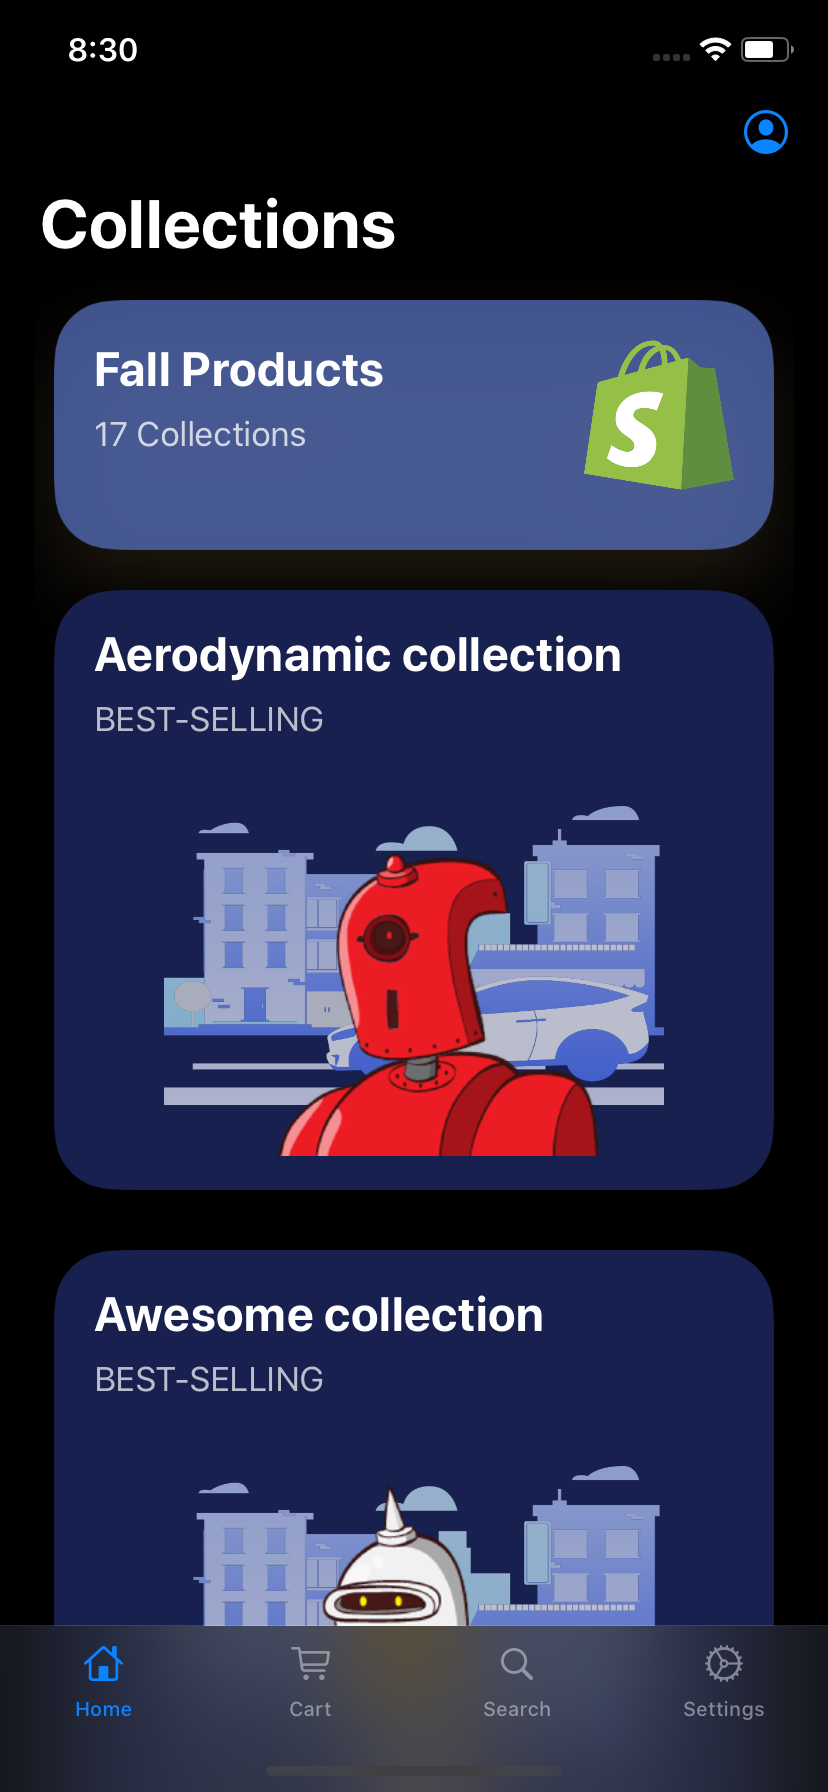
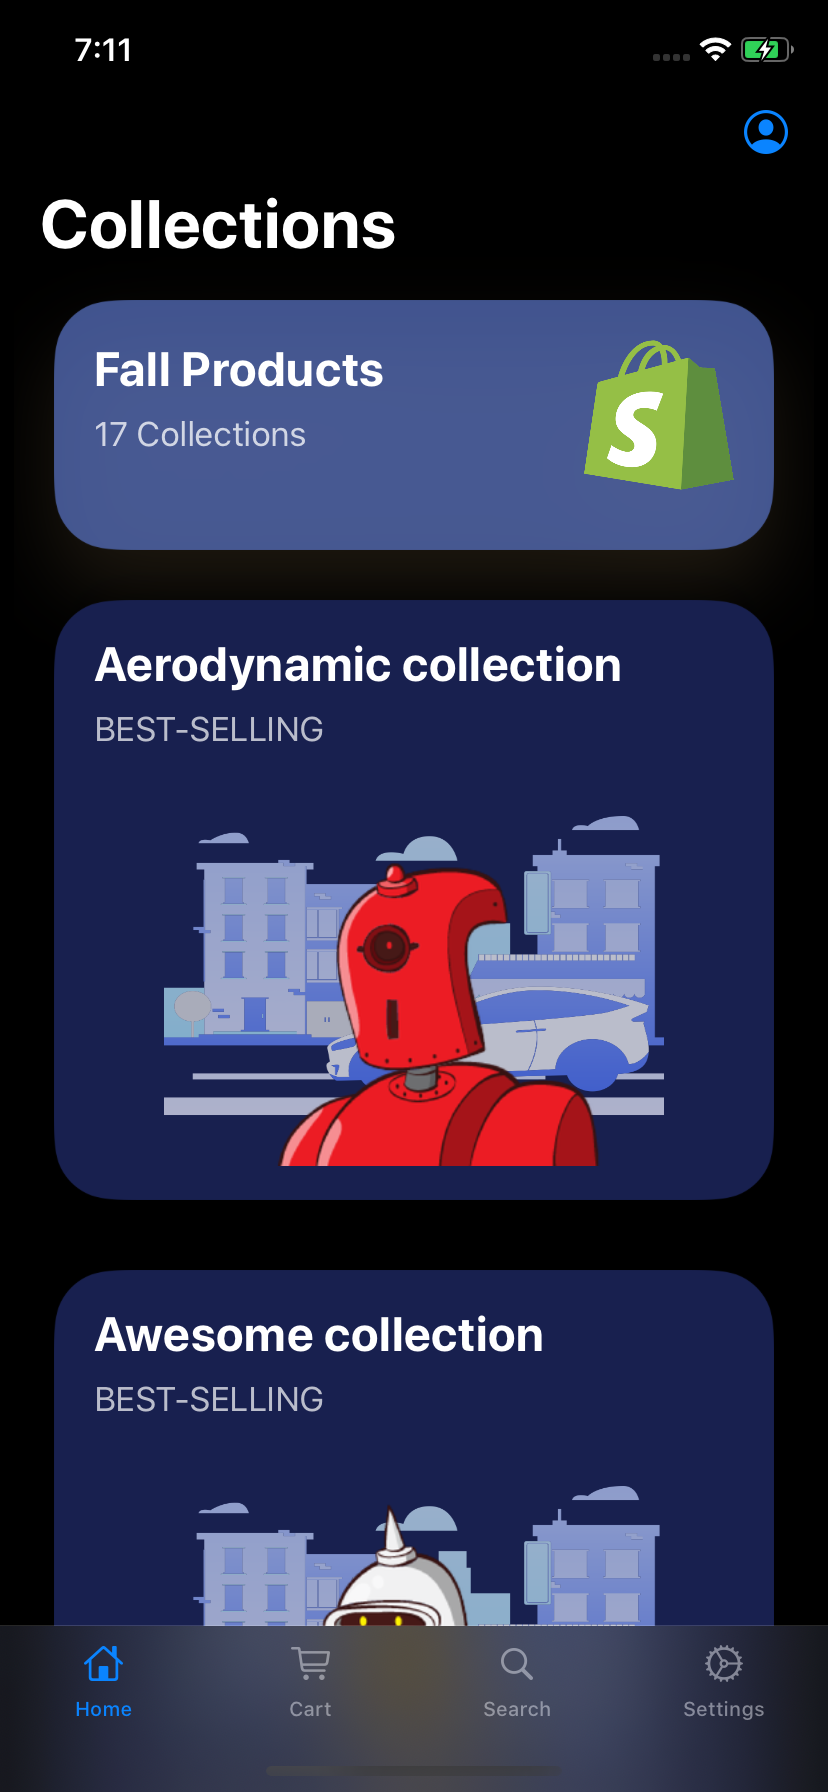
Cleaned Code. Added comments.

diff --git a/ShopifyStore/Views/MainViews/AddToCart/Checkout/CheckoutView.swift b/ShopifyStore/Views/MainViews/AddToCart/Checkout/CheckoutView.swift
@@ -23,11 +23,10 @@ struct CheckoutView_Previews: PreviewProvider {
 
 
 struct CheckoutOrder: View {
+    /// Initializing default settings for components of the form view
     @State var receive = false
-    @State var number = 1
     @State var selection = 1
     @State var date = Date()
-    @State var email = ""
     @State var submit = false
     
     @EnvironmentObject var shoppingCart: ShoppingCart
@@ -39,6 +38,9 @@ struct CheckoutOrder: View {
                     Picker(selection: $selection, label: Text("Shopify Office")) {
                         Text("80 Spadina Ave #400, Toronto, ON M5V 2J4").tag(1)
                         Text("150 Elgin St, Ottawa, ON K2P 1L4").tag(2)
+                        Text("490 Rue De La Gauchetière O, Montréal, QC H2Z 0B3").tag(3)
+                        Text("57 Erb St W, Waterloo, ON N2L 6C2").tag(4)
+                        Text("33 New Montgomery St #750, San Francisco, CA 94105").tag(5)
                     }
                 }
                 Section(header: Text("Shipping Details")) {
@@ -86,12 +88,15 @@ struct CheckoutOrder: View {
                     Text("Date")
                 })
                 Section {
-                    Button(action: { self.submit.toggle() }) {
+                    Button(action: {
+                        self.submit.toggle()
+                        self.shoppingCart.items.removeAll()
+                    }) {
                         Text("Submit Order")
                     }
                 }
                 .alert(isPresented: $submit, content: {
-                    Alert(title: Text("Thanks, your order has been shipped"), message: Text("Enjoy!"))
+                    Alert(title: Text("Your order has been shipped"), message: Text("Enjoy!"))
                 })
             }
             .navigationBarTitle("Checkout Order")

diff --git a/ShopifyStore/Views/MainViews/AddToCart/ShoppingCart/ShoppingCart.swift b/ShopifyStore/Views/MainViews/AddToCart/ShoppingCart/ShoppingCart.swift
@@ -8,21 +8,21 @@
 
 import SwiftUI
 
+/// Model that handles all the data for the shopping cart view
 class ShoppingCart: ObservableObject {
     @Published var items = [ProductCard]()
     
-    /// function to return the total checkout price
+    /// Function to return the total checkout price
     func getTotalPrice() -> Double {
         var totalPrice: Double = 0.0
-        // iterate through items array
-        // add the new item price to existing item price
-        // return the price
+
         for productCard in items {
             totalPrice += productCard.price
         }
         return totalPrice
     }
     
+    /// Returns shipping price
     func getShippingPrice() -> Double {
         var shippingPrice: Double = 0.0
         let totalPrice = getTotalPrice()
@@ -35,6 +35,7 @@ class ShoppingCart: ObservableObject {
         return shippingPrice
     }
     
+    /// Returns total before tax
     func getSubtotal() -> Double {
         // subtotal = cost of products + shipping
         let totalPrice = getTotalPrice()
@@ -49,6 +50,7 @@ class ShoppingCart: ObservableObject {
         return subtotal
     }
 
+    /// Return task of given items
     func getGST() -> Double {
         // GST = subtotal * .13
         var GST: Double = 0.0
@@ -62,6 +64,7 @@ class ShoppingCart: ObservableObject {
         return GST
     }
 
+    /// Returns the total price of the order
     func getOrderTotal() -> Double {
         // total = subtotal + GST
         let orderTotal: Double = getSubtotal() + getGST()

diff --git a/ShopifyStore/ContentView.swift b/ShopifyStore/ContentView.swift
@@ -9,6 +9,7 @@
 import SwiftUI
 import Combine
 
+/// Main view which displays all collections which store various products
 struct ContentView: View {
     /// Model that stores the data from the customCollection API
     @ObservedObject var collectionCardViewModel = CollectionViewModel.shared
@@ -33,6 +34,8 @@ struct ContentView: View {
                                 /// Once the collection clicked, it will direct the user to the next page
                                 NavigationLink(destination: ParallaxView(title: collectionCard.title, parallaxImageName: collectionCard.image, customCollectionID: collectionCard.id)) {
                                     CollectionCardView(customCollectionCard: collectionCard)
+                                        .padding(.top, 5)
+                                        .padding(.horizontal, 10)
                                 }
                                 .buttonStyle(PlainButtonStyle())
                             }

diff --git a/ShopifyStore/AppDelegate.swift b/ShopifyStore/AppDelegate.swift
@@ -11,7 +11,11 @@ import UIKit
 @UIApplicationMain
 class AppDelegate: UIResponder, UIApplicationDelegate {
 
+    static var orientationLock = UIInterfaceOrientationMask.portrait
 
+       func application(_ application: UIApplication, supportedInterfaceOrientationsFor window: UIWindow?) -> UIInterfaceOrientationMask {
+           return AppDelegate.orientationLock
+       }
 
     func application(_ application: UIApplication, didFinishLaunchingWithOptions launchOptions: [UIApplication.LaunchOptionsKey: Any]?) -> Bool {
         // Override point for customization after application launch.

diff --git a/ShopifyStore/Views/MainViews/Tabs/SettingTabView.swift b/ShopifyStore/Views/MainViews/Tabs/SettingTabView.swift
@@ -26,9 +26,6 @@ struct SettingsTab: View {
             Toggle(isOn: $receive) {
                Text("Recieve Notifications")
             }
-            Stepper(value: $number, in: 1...10) {
-               Text("\(number) Notification\(number > 1 ? "s" : "") per week")
-            }
             DatePicker(selection: $date, label: {
                Text("Date")
             })

diff --git a/ShopifyStore/Views/MainViews/AddToCart/ShoppingCart/ShoppingCartView.swift b/ShopifyStore/Views/MainViews/AddToCart/ShoppingCart/ShoppingCartView.swift
@@ -9,9 +9,9 @@
 import SwiftUI
 
 struct ShoppingCartView: View {
-    
+    /// Model that handles all the data for the shopping cart view
     @EnvironmentObject var shoppingCart: ShoppingCart
-    
+    /// Handling the state of our views - when set to 1, the navigation link to checkout view is presented
     @State private var action: Int? = 0
     
     var body: some View {
